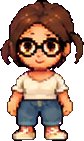
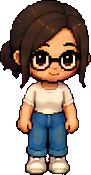
Cécile v2 (chignon) : marche gauche/droite/dos, arrêt, clignement ; poses d'arrêt par direction
Claude-Session: https://claude.ai/code/session_01SuFQQKxBnVjgF8gokGKhi5

diff --git a/aventure/js/room.js b/aventure/js/room.js
@@ -210,19 +210,22 @@
       const d = A.def, cols = d.frames || 4;
       const face = d.rows[A.face] != null ? A.face : 'down';
       const n = (d.counts && d.counts[face]) || cols;
-      let f = 0, flip = false, bob = 0;
+      let row = d.rows[face], f = 0, flip = false, bob = 0;
+      const idleOn = d.idle && d.idle.fps && (!d.idle.faces || d.idle.faces.indexOf(face) >= 0);
       if (A.moving && d.walk) {
         const w = d.walk, st = A.t * w.fps / 1000, si = Math.floor(st);
         f = si % n;
         if ((w.flipAlt || []).indexOf(face) >= 0) { flip = (si % 2) === 1; bob = (w.bob || 0) * Math.sin(Math.PI * (st - si)); }
-      } else if (d.idle && d.idle.fps) {
+      } else if (idleOn) {
         f = Math.floor(A.t * d.idle.fps / 1000) % n;
+      } else if (d.stand && d.stand[face]) {
+        row = d.rows[d.stand[face][0]]; f = d.stand[face][1];
       }
       if (e.flipX) flip = !flip;
-      const k = d.rows[face] + ':' + f + ':' + flip + ':' + Math.round(bob * 4);
+      const k = row + ':' + f + ':' + flip + ':' + Math.round(bob * 4);
       if (k === A.key) return;
       A.key = k;
-      A.img.setFrame(d.rows[face] * cols + f);
+      A.img.setFrame(row * cols + f);
       A.img.setFlipX(flip);
       const sc = Math.abs(A.img.scaleY) || 1;
       A.img.setOrigin(0.5, 1 + (bob / sc) / d.cell[1]);

diff --git a/aventure/LISEZ-MOI.md b/aventure/LISEZ-MOI.md
@@ -136,6 +136,7 @@ Thomas (`thomas_01`), Cécile (`cecile_01`) et TiChat (`tichat_01`) sont des per
 - `assets/characters/<nom>.png` : aperçu fixe, c'est ce que l'éditeur montre dans la palette.
 - `data/characters.json` : taille d'une case, rangées, nombre d'images par rangée (`counts`), vitesse de marche. Les clés sont celles des aperçus.
 - Dans la pièce : un PNJ s'écrit `{"id": "thomas", "key": "thomas_01", "face": "down", …}` (`face` : `down`, `up`, `left`, `right`). Il se tourne vers le joueur quand on lui parle. Un personnage posé depuis l'éditeur a un réglage « Regard ».
+- Pose d'arrêt et clignement : `"stand"` (image affichée à l'arrêt, par direction) et `"idle": {"fps": 2, "faces": ["down"]}` (images qui défilent à l'arrêt, ici le clignement de Cécile de face).
 - Promenade : `"wander": 80` (rayon en pixels) fait marcher un personnage autour de sa place (TiChat). Il s'arrête quand le joueur s'approche ou lui parle ; `"wanderSpeed"` règle sa vitesse. Mets `"solid": false` pour qu'il ne bloque pas le joueur.
 - Le joueur : pour lui donner un personnage animé, mets `"key": "thomas_01"` (ou une autre clé de `characters.json`) dans `"player"`. Sans clé, il reste une silhouette provisoire.
 - Nouveau personnage : ajoute la feuille dans `assets/sheets/`, l'aperçu dans `assets/characters/`, une entrée dans `data/characters.json` et `python tools/make_assets_json.py`.
